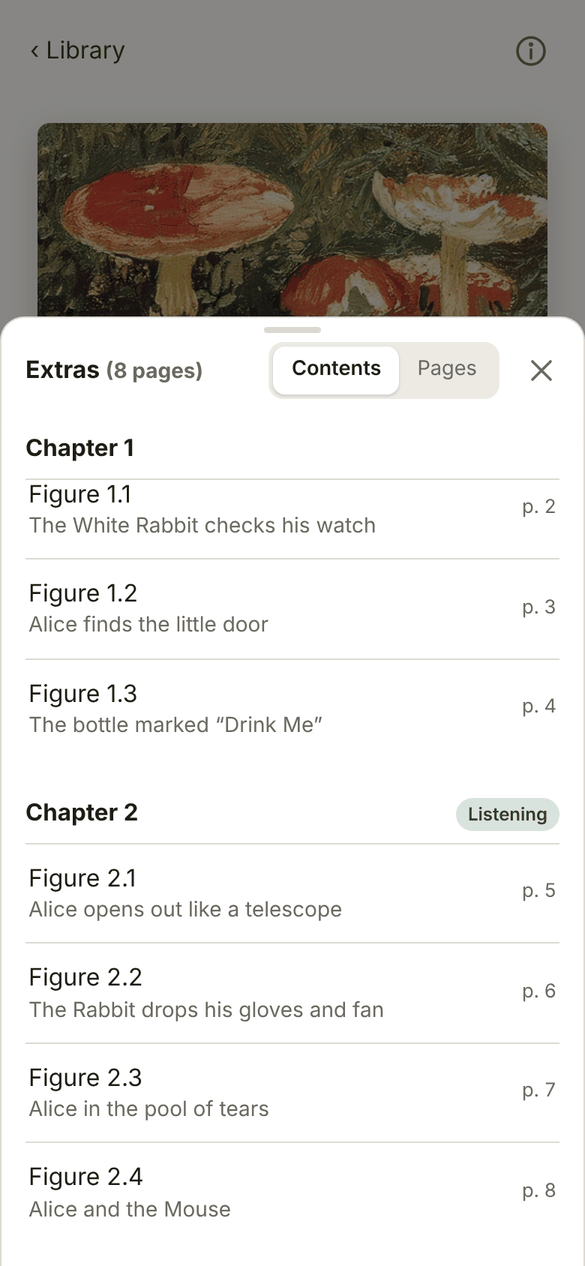
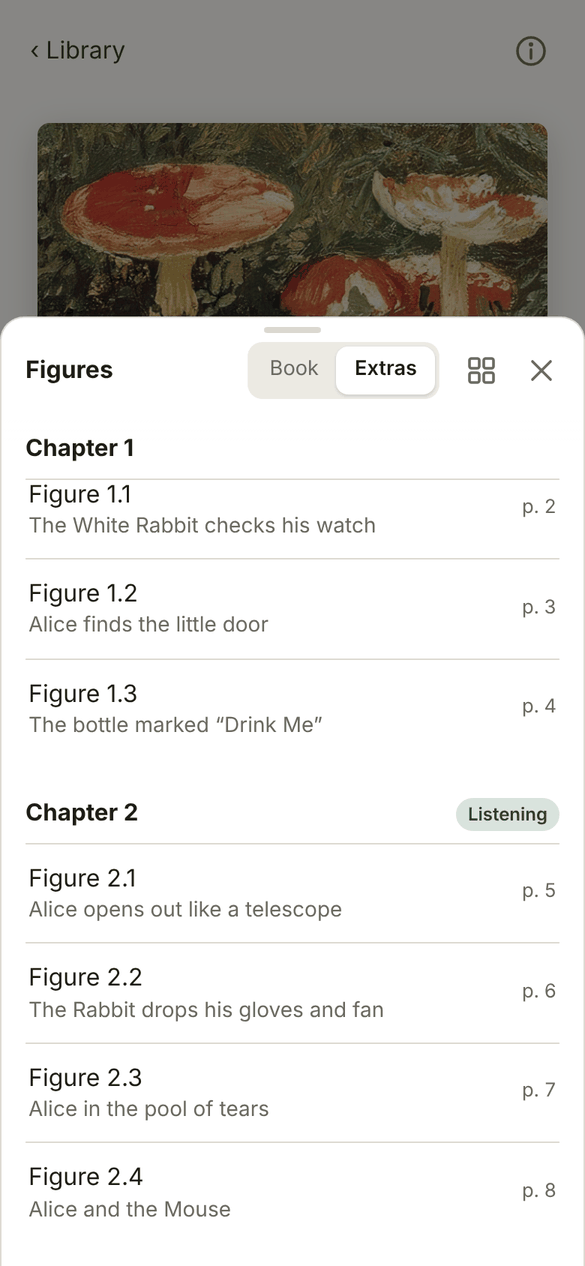
README: the extras picture and wording follow the combined Figures sheet
Claude-Session: https://claude.ai/code/session_018kUtteGJLH6kfEyY4LEyTL

Changed region(s): [[0.4, 0.2464, 0.8615, 0.3389], [0.0615, 0.2773, 0.3385, 0.3081]]

diff --git a/README.md b/README.md
@@ -40,8 +40,8 @@ Files must be free of copy protection, such as the downloads from Libro.fm. A sh
 | **Citations** | Quotes are copied and shared with a citation in a simple style, MLA, APA or Chicago, with or without the place in the audio. |
 | **Page numbers** | Taken from the EPUB when it records them, or found in a PDF of the print edition. |
 | **Search** | Search the book's text: each result shows its chapter and two lines, opens to its paragraph, and can play from there or become a bookmark. Recent searches are kept per book. The bookmarks list can be searched too, and also shows bookmarks related by meaning: “boat” finds a quote about a canoe. |
-| **Figures** | Pictures and tables in the book text are listed, and the app can chime when the reading reaches one. |
-| **Extras** | The PDF of figures, tables or notes that comes with many audiobooks: browse it page by page, or by the figures, tables and chapters found in it, starting at the chapter you are listening to. |
+| **Figures** | Pictures and tables in the book text, listed by chapter or as a grid, and the app can chime when the reading reaches one. |
+| **Extras** | The PDF of figures, tables or notes that comes with many audiobooks sits under the same Figures button: by chapter, starting at the one you are listening to, or every page as a grid. |
 | **Player** | Chapters, speed, sleep timer, skip buttons, a mini player, and your choice of accent colour. |
 
 ### Citations
